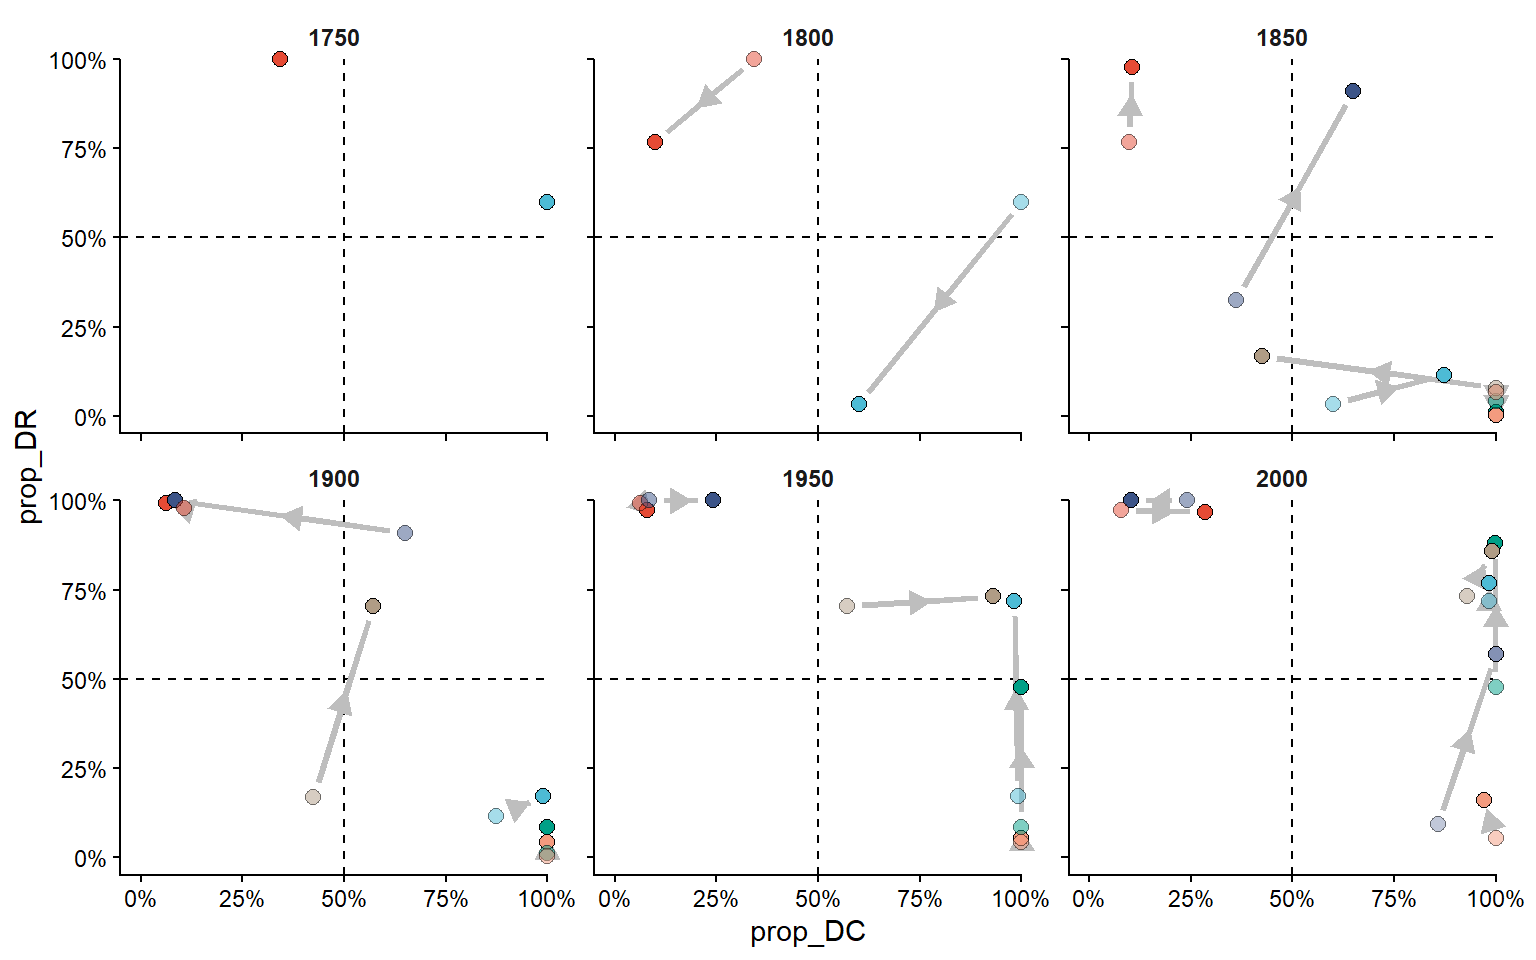
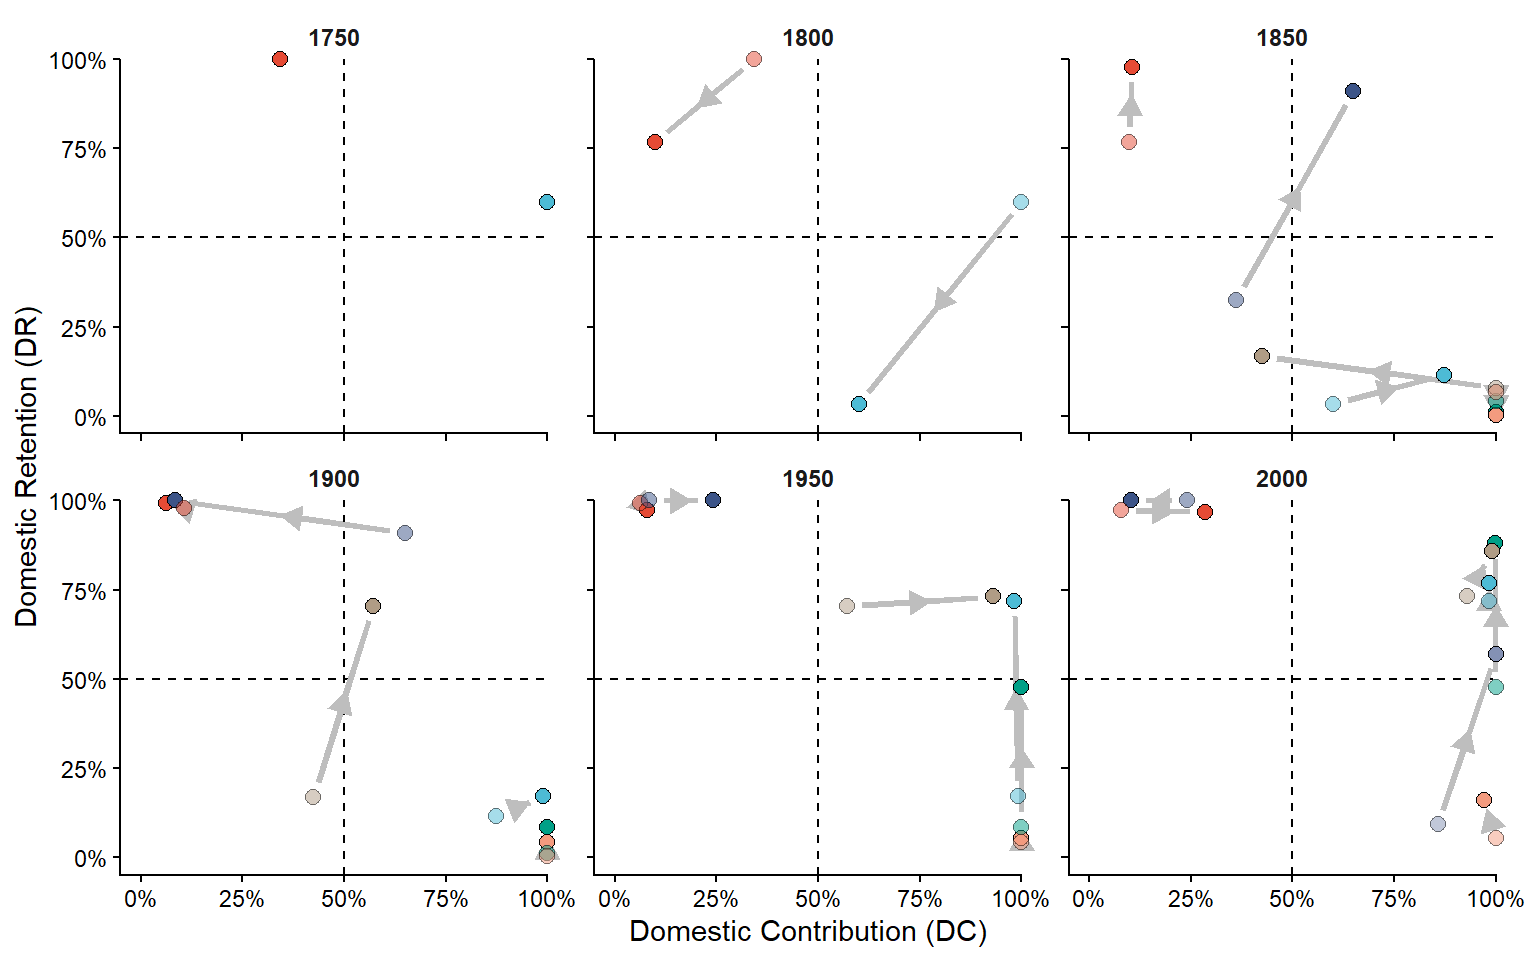
update labels

Changed region(s): [[0.4062, 0.9375, 0.6562, 1.0], [0.0, 0.3125, 0.0312, 0.6562]]

diff --git a/docs/R/07_V_scatterplot_Fig2.html b/docs/R/07_V_scatterplot_Fig2.html
@@ -303,7 +303,7 @@ Note
 </div>
 </div>
 <div class="callout-body-container callout-body">
-<p>The final figure presented in the manuscript is further edited with the aid o inkscape software</p>
+<p>The final figure presented in the manuscript is further edited with the aid of inkscape software</p>
 </div>
 </div>
 <section id="domestic-contribution-dc-and-domestic-retention-dr-for-all-countries" class="level1">
@@ -384,22 +384,26 @@ Note
 <span id="cb4-48"><a href="#cb4-48" aria-hidden="true" tabindex="-1"></a>    <span class="at">labels =</span> scales<span class="sc">::</span><span class="fu">label_percent</span>(),</span>
 <span id="cb4-49"><a href="#cb4-49" aria-hidden="true" tabindex="-1"></a>    <span class="at">expand =</span> <span class="fu">expansion</span>(<span class="at">mult =</span> <span class="fu">c</span>(<span class="fl">0.05</span>, <span class="dv">0</span>))</span>
 <span id="cb4-50"><a href="#cb4-50" aria-hidden="true" tabindex="-1"></a>  )<span class="sc">+</span></span>
-<span id="cb4-51"><a href="#cb4-51" aria-hidden="true" tabindex="-1"></a>  <span class="fu">theme_classic</span>()<span class="sc">+</span></span>
-<span id="cb4-52"><a href="#cb4-52" aria-hidden="true" tabindex="-1"></a>  <span class="fu">theme</span>(</span>
-<span id="cb4-53"><a href="#cb4-53" aria-hidden="true" tabindex="-1"></a>    <span class="at">strip.background =</span> <span class="fu">element_rect</span>(<span class="at">fill =</span> <span class="cn">NA</span>, <span class="at">color =</span> <span class="cn">NA</span>),</span>
-<span id="cb4-54"><a href="#cb4-54" aria-hidden="true" tabindex="-1"></a>    <span class="at">strip.text =</span> <span class="fu">element_text</span>(<span class="at">face =</span> <span class="st">"bold"</span>),</span>
-<span id="cb4-55"><a href="#cb4-55" aria-hidden="true" tabindex="-1"></a>    <span class="at">legend.position =</span> <span class="st">"none"</span>,</span>
-<span id="cb4-56"><a href="#cb4-56" aria-hidden="true" tabindex="-1"></a>    <span class="at">plot.background =</span> <span class="fu">element_blank</span>(),</span>
-<span id="cb4-57"><a href="#cb4-57" aria-hidden="true" tabindex="-1"></a>    <span class="at">panel.spacing =</span> <span class="fu">unit</span>(<span class="dv">5</span>, <span class="st">"pt"</span>),</span>
-<span id="cb4-58"><a href="#cb4-58" aria-hidden="true" tabindex="-1"></a>    <span class="at">panel.spacing.x =</span> <span class="fu">unit</span>(<span class="dv">15</span>, <span class="st">"pt"</span>),</span>
-<span id="cb4-59"><a href="#cb4-59" aria-hidden="true" tabindex="-1"></a>    <span class="at">plot.margin =</span> <span class="fu">margin</span>(<span class="dv">5</span>,<span class="dv">15</span>,<span class="dv">5</span>,<span class="dv">5</span>,<span class="st">"pt"</span>),</span>
-<span id="cb4-60"><a href="#cb4-60" aria-hidden="true" tabindex="-1"></a>    <span class="at">axis.line =</span> <span class="fu">element_line</span>(<span class="at">lineend =</span> <span class="st">"round"</span>),</span>
-<span id="cb4-61"><a href="#cb4-61" aria-hidden="true" tabindex="-1"></a>    <span class="at">axis.text =</span> <span class="fu">element_text</span>(<span class="at">color =</span> <span class="st">"black"</span>),</span>
-<span id="cb4-62"><a href="#cb4-62" aria-hidden="true" tabindex="-1"></a>    <span class="at">axis.ticks =</span> <span class="fu">element_line</span>(<span class="at">color =</span> <span class="st">"black"</span>)</span>
-<span id="cb4-63"><a href="#cb4-63" aria-hidden="true" tabindex="-1"></a>  )<span class="sc">+</span></span>
-<span id="cb4-64"><a href="#cb4-64" aria-hidden="true" tabindex="-1"></a>  <span class="fu">coord_cartesian</span>(<span class="at">xlim =</span> <span class="fu">c</span>(<span class="dv">0</span>,<span class="dv">1</span>),</span>
-<span id="cb4-65"><a href="#cb4-65" aria-hidden="true" tabindex="-1"></a>                  <span class="at">ylim =</span> <span class="fu">c</span>(<span class="dv">0</span>,<span class="dv">1</span>),</span>
-<span id="cb4-66"><a href="#cb4-66" aria-hidden="true" tabindex="-1"></a>                  <span class="at">clip =</span> <span class="st">"off"</span>)</span></code><button title="Copy to Clipboard" class="code-copy-button"><i class="bi"></i></button></pre></div>
+<span id="cb4-51"><a href="#cb4-51" aria-hidden="true" tabindex="-1"></a>  <span class="fu">labs</span>(</span>
+<span id="cb4-52"><a href="#cb4-52" aria-hidden="true" tabindex="-1"></a>    <span class="at">x =</span> <span class="st">"Domestic Contribution (DC)"</span>,</span>
+<span id="cb4-53"><a href="#cb4-53" aria-hidden="true" tabindex="-1"></a>    <span class="at">y =</span> <span class="st">"Domestic Retention (DR)"</span></span>
+<span id="cb4-54"><a href="#cb4-54" aria-hidden="true" tabindex="-1"></a>  )<span class="sc">+</span></span>
+<span id="cb4-55"><a href="#cb4-55" aria-hidden="true" tabindex="-1"></a>  <span class="fu">theme_classic</span>()<span class="sc">+</span></span>
+<span id="cb4-56"><a href="#cb4-56" aria-hidden="true" tabindex="-1"></a>  <span class="fu">theme</span>(</span>
+<span id="cb4-57"><a href="#cb4-57" aria-hidden="true" tabindex="-1"></a>    <span class="at">strip.background =</span> <span class="fu">element_rect</span>(<span class="at">fill =</span> <span class="cn">NA</span>, <span class="at">color =</span> <span class="cn">NA</span>),</span>
+<span id="cb4-58"><a href="#cb4-58" aria-hidden="true" tabindex="-1"></a>    <span class="at">strip.text =</span> <span class="fu">element_text</span>(<span class="at">face =</span> <span class="st">"bold"</span>),</span>
+<span id="cb4-59"><a href="#cb4-59" aria-hidden="true" tabindex="-1"></a>    <span class="at">legend.position =</span> <span class="st">"none"</span>,</span>
+<span id="cb4-60"><a href="#cb4-60" aria-hidden="true" tabindex="-1"></a>    <span class="at">plot.background =</span> <span class="fu">element_blank</span>(),</span>
+<span id="cb4-61"><a href="#cb4-61" aria-hidden="true" tabindex="-1"></a>    <span class="at">panel.spacing =</span> <span class="fu">unit</span>(<span class="dv">5</span>, <span class="st">"pt"</span>),</span>
+<span id="cb4-62"><a href="#cb4-62" aria-hidden="true" tabindex="-1"></a>    <span class="at">panel.spacing.x =</span> <span class="fu">unit</span>(<span class="dv">15</span>, <span class="st">"pt"</span>),</span>
+<span id="cb4-63"><a href="#cb4-63" aria-hidden="true" tabindex="-1"></a>    <span class="at">plot.margin =</span> <span class="fu">margin</span>(<span class="dv">5</span>,<span class="dv">15</span>,<span class="dv">5</span>,<span class="dv">5</span>,<span class="st">"pt"</span>),</span>
+<span id="cb4-64"><a href="#cb4-64" aria-hidden="true" tabindex="-1"></a>    <span class="at">axis.line =</span> <span class="fu">element_line</span>(<span class="at">lineend =</span> <span class="st">"round"</span>),</span>
+<span id="cb4-65"><a href="#cb4-65" aria-hidden="true" tabindex="-1"></a>    <span class="at">axis.text =</span> <span class="fu">element_text</span>(<span class="at">color =</span> <span class="st">"black"</span>),</span>
+<span id="cb4-66"><a href="#cb4-66" aria-hidden="true" tabindex="-1"></a>    <span class="at">axis.ticks =</span> <span class="fu">element_line</span>(<span class="at">color =</span> <span class="st">"black"</span>)</span>
+<span id="cb4-67"><a href="#cb4-67" aria-hidden="true" tabindex="-1"></a>  )<span class="sc">+</span></span>
+<span id="cb4-68"><a href="#cb4-68" aria-hidden="true" tabindex="-1"></a>  <span class="fu">coord_cartesian</span>(<span class="at">xlim =</span> <span class="fu">c</span>(<span class="dv">0</span>,<span class="dv">1</span>),</span>
+<span id="cb4-69"><a href="#cb4-69" aria-hidden="true" tabindex="-1"></a>                  <span class="at">ylim =</span> <span class="fu">c</span>(<span class="dv">0</span>,<span class="dv">1</span>),</span>
+<span id="cb4-70"><a href="#cb4-70" aria-hidden="true" tabindex="-1"></a>                  <span class="at">clip =</span> <span class="st">"off"</span>)</span></code><button title="Copy to Clipboard" class="code-copy-button"><i class="bi"></i></button></pre></div>
 <div class="cell-output-display">
 <div>
 <figure class="figure">
